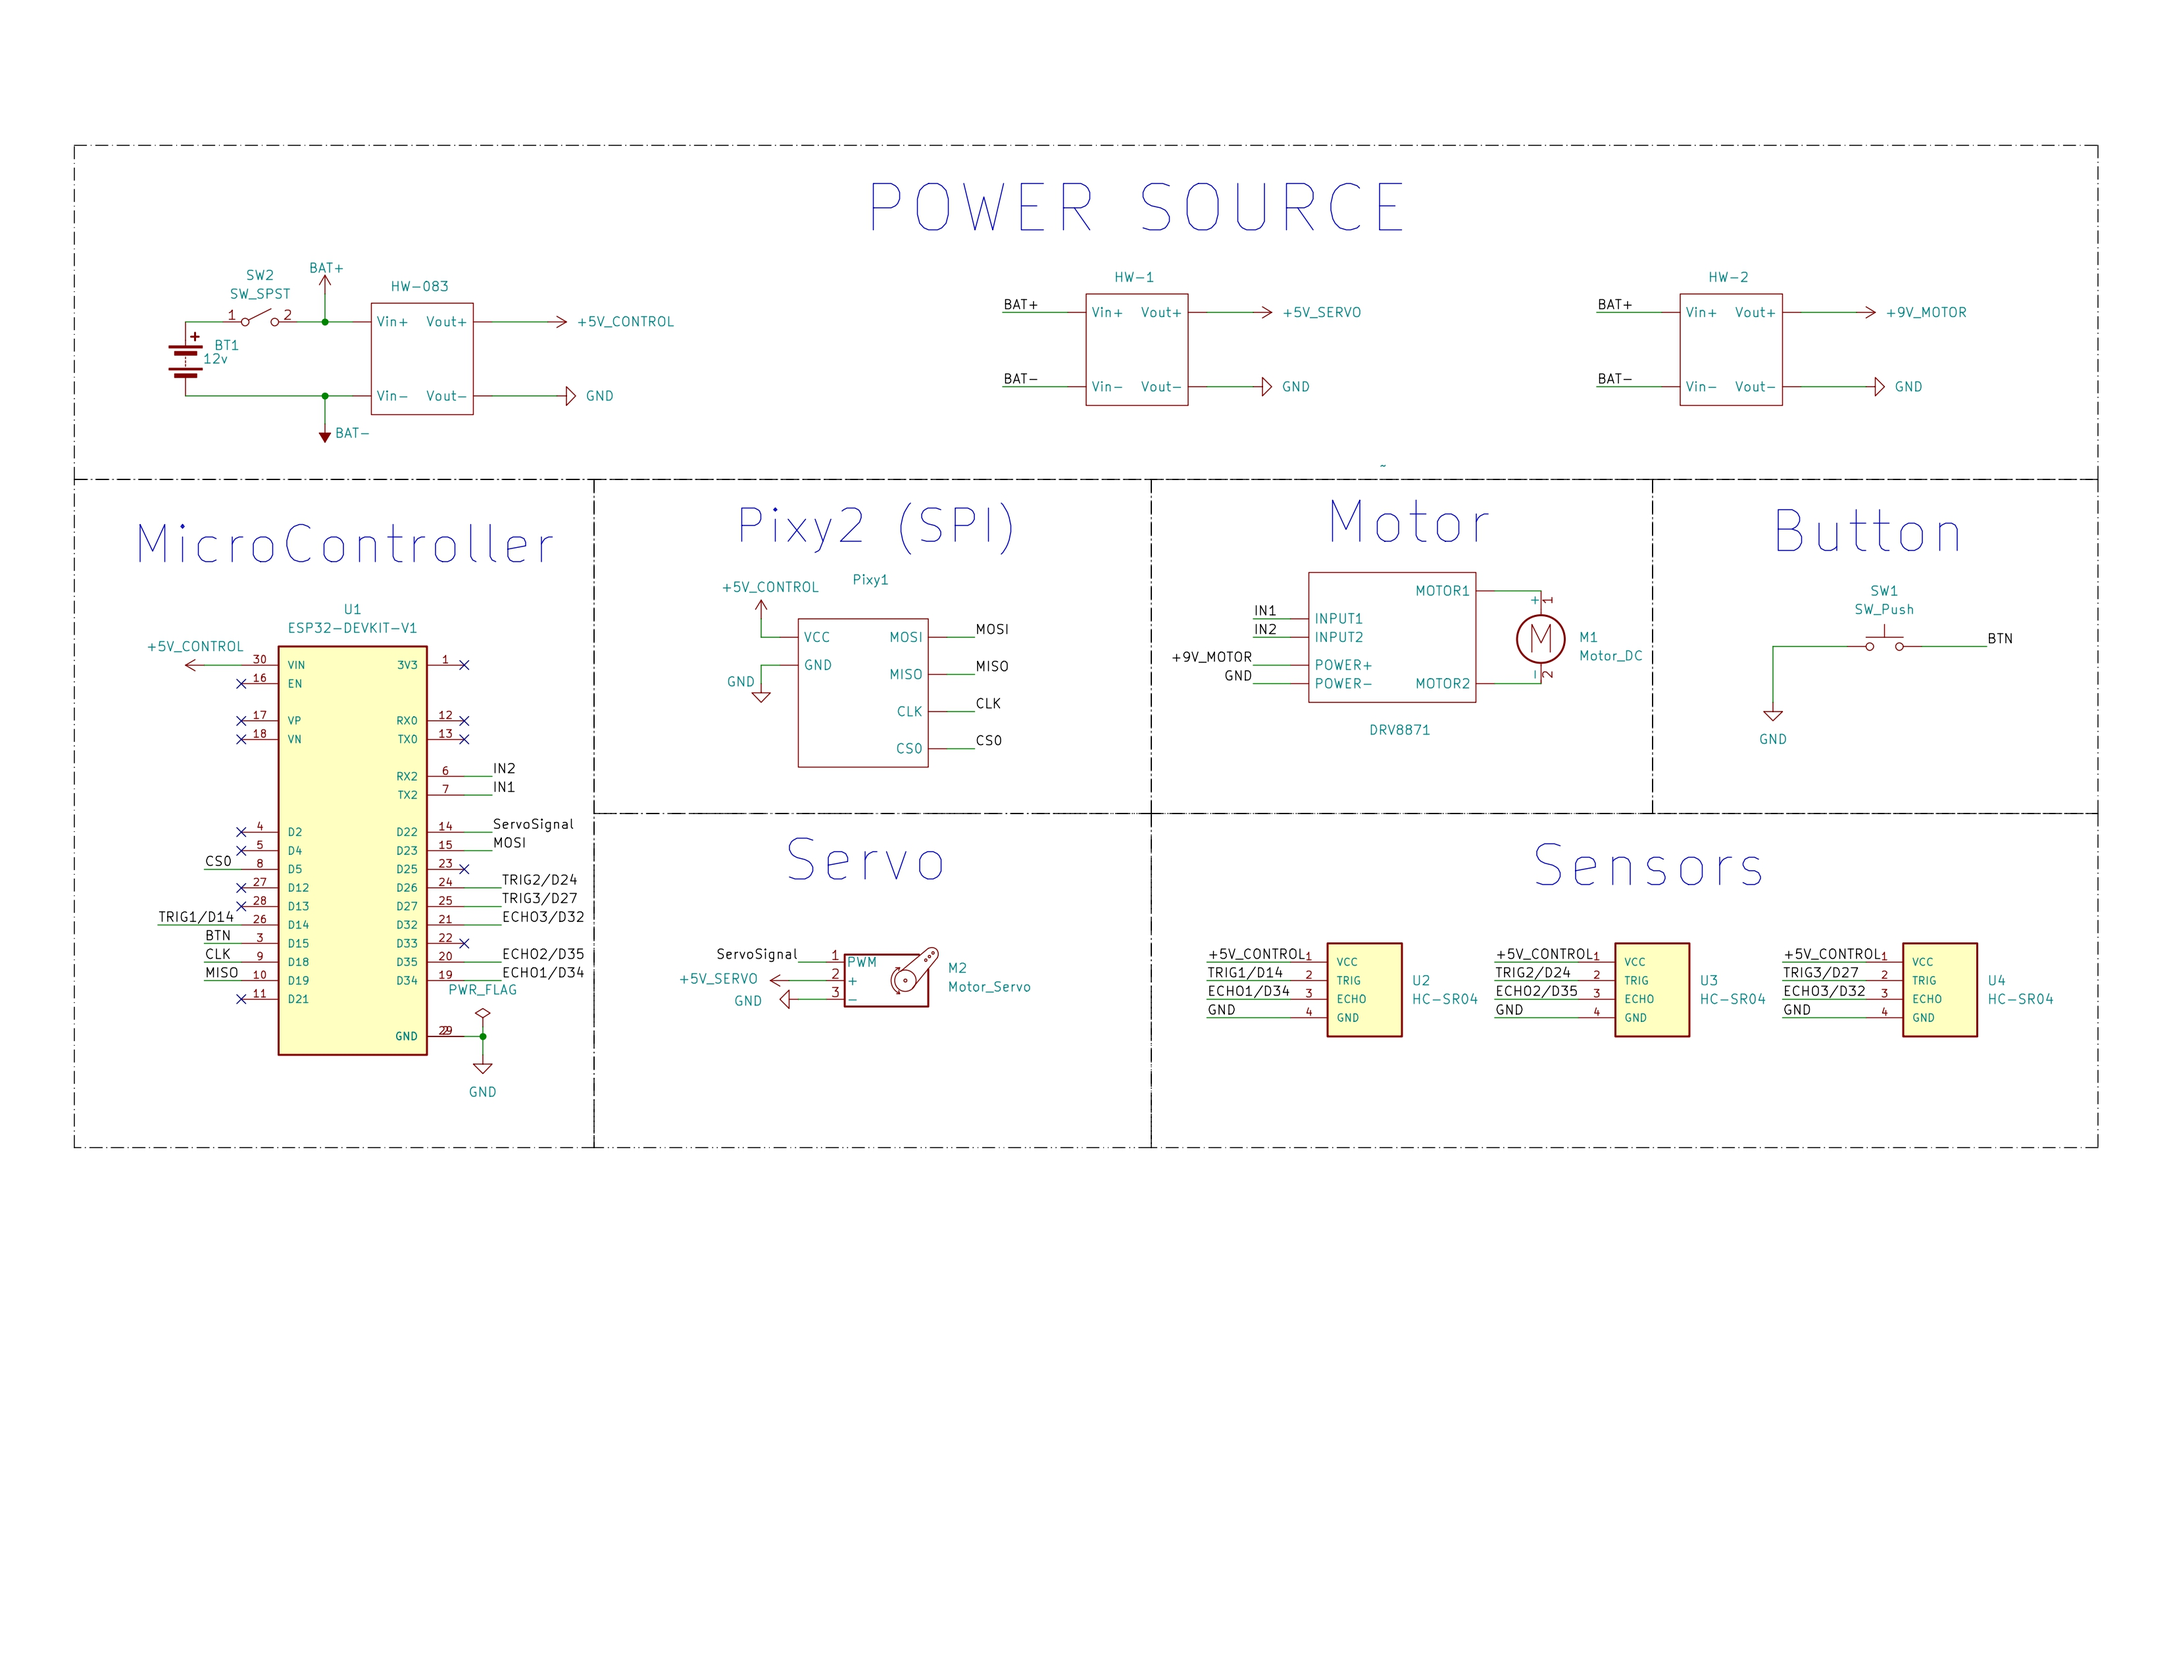
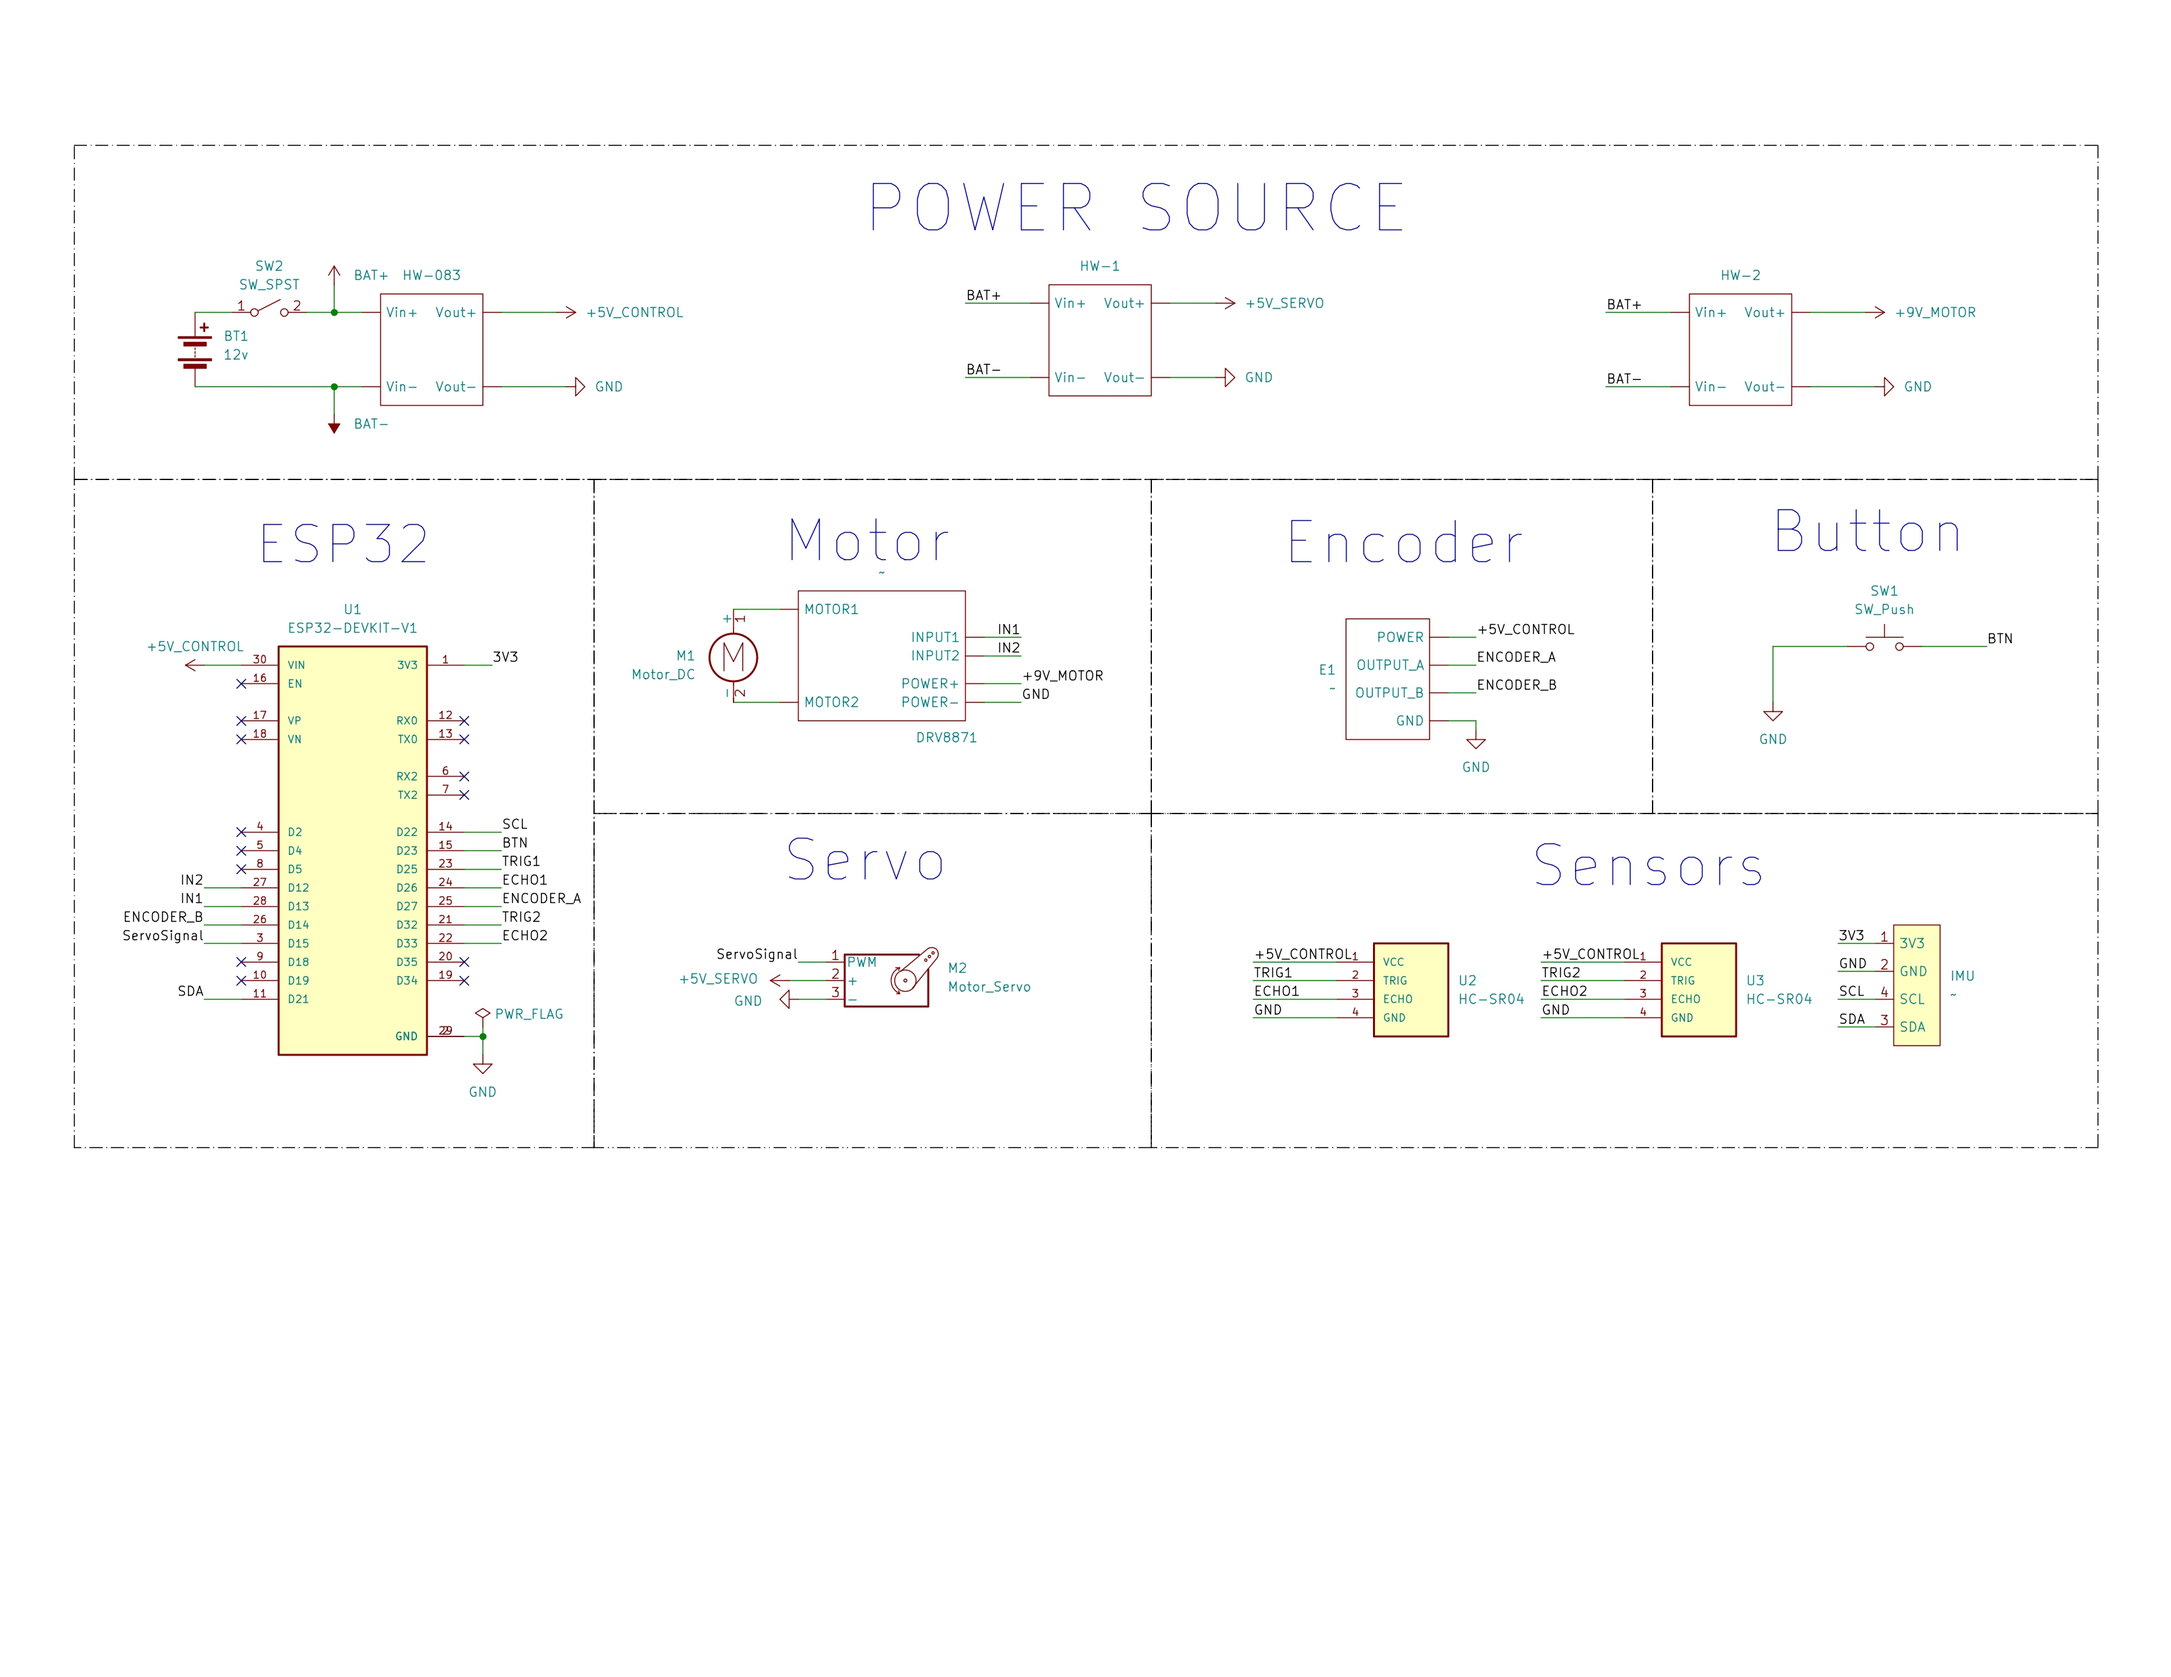
Previous Versions Update
prototype versions

diff --git a/models/README.md b/models/README.md
@@ -1,0 +1,71 @@
+# Robot Design Evolution — TEAM DELTA (WRO 2025)
+
+This directory presents the **evolution of TEAM DELTA’s robot design** through several key development stages, from the first prototype to the final competition model **RSLN118**.  
+Each version introduces mechanical, structural, and electronic improvements toward achieving a compact, modular, and high-performance autonomous vehicle.
+
+---
+
+## Version V1
+The **initial concept prototype**, designed to validate the overall geometry and mechanical feasibility of the drivetrain and steering system.  
+This version consists of a **flat, single-level chassis** with basic mounting points for the DC motor and steering servo.
+
+![Version V1](v1.jpg)
+
+---
+
+## Version V2
+Added **partial enclosures** and a more rigid front structure to reinforce the servo and motor mounting.  
+Wheel positioning and clearance were refined, and the first **servo linkage** adjustments were introduced.
+
+![Version V2](v2.jpg)
+
+---
+
+## Version V3
+Introduced a **more robust chassis** with a thicker mid-frame and clearer motor alignment.  
+The rear axle and pulley system were optimized for better torque transfer.  
+Color-coded components were implemented (red for drivetrain elements) to improve part identification during assembly.
+
+![Version V3](v3.jpg)
+
+---
+
+## Version V4
+A **fully functional mechanical prototype**, featuring precise Ackermann steering geometry and improved structural rigidity.  
+This version introduced **rugged wheels**, refined servo mounting, and the first **differential system** for rear traction balance.
+
+![Version V4](v4.jpg)
+
+---
+
+### Note
+The differences between **V4**, **V5**, and **V6** were **minor and functionally negligible**.  
+These intermediate versions mainly involved small **dimensional corrections**, **cable routing optimization**, and **mounting hole alignment**.  
+For simplicity and traceability, only **V4 and V6.5** are presented here, as they represent the most significant design milestones.
+
+---
+
+## Version V6.5
+Introduced a **multi-floor modular structure**, separating mechanical, electrical, and computational layers.  
+The design now accommodates the **Raspberry Pi 5**, **ESP32**, **motor drivers (DRV8871)**, and **sensors** within dedicated compartments.  
+Improved frame reinforcements and integrated brackets provide cleaner wiring paths and enhanced serviceability.
+
+![Version V6.5](v6.5.jpg)
+
+---
+
+## Final Version — RSLN118
+The **official competition model** for the **WRO 2025 – Future Engineers** category.  
+This version integrates all electronic and mechanical systems into a refined **three-floor chassis**:
+
+- **Lower Floor:** drivetrain, motor drivers, and servo system.  
+- **Middle Floor:** ESP32, power regulators, and wiring management.  
+- **Upper Floor:** Raspberry Pi 5 and Logitech C920 camera mount.
+
+The RSLN118 represents the culmination of all previous iterations — optimized for **stability, modularity, and performance** in real-world conditions.
+
+![RSLN118](RSLN118.jpg)
+
+---
+From **V1 to RSLN118**, each iteration brought the robot closer to a complete mechatronic system.  
+The evolution reflects continuous improvements in **mechanical strength, electronic integration, and design modularity**, resulting in a robust and competition-ready autonomous platform.

diff --git a/README.md b/README.md
@@ -175,7 +175,9 @@ Three sensors: **front, left, right**.
 
 ---
 
-## Robot Floors
+## Robot Structure
+
+The robot’s mechanical structure is designed in multiple stacked floors, each serving a distinct function and housing specific components.
 
 ### First Floor
 
@@ -214,8 +216,6 @@ It is divided into two categories:
   Inside you’ll find:  
   - [`STL/`](models/RSLN118/STL/) — final printable meshes  
   - `STEP/` — editable CAD files  
-  - `Diff01/`, `Diff02/` — differential system components  
-  - `Hitec HS-485HB/` — servo integration parts  
   - `Test/` — auxiliary sub-assemblies  
   - individual SolidWorks parts (`Base`, `CenterShaft`, `ESP32 Shield`, etc.)  
 
